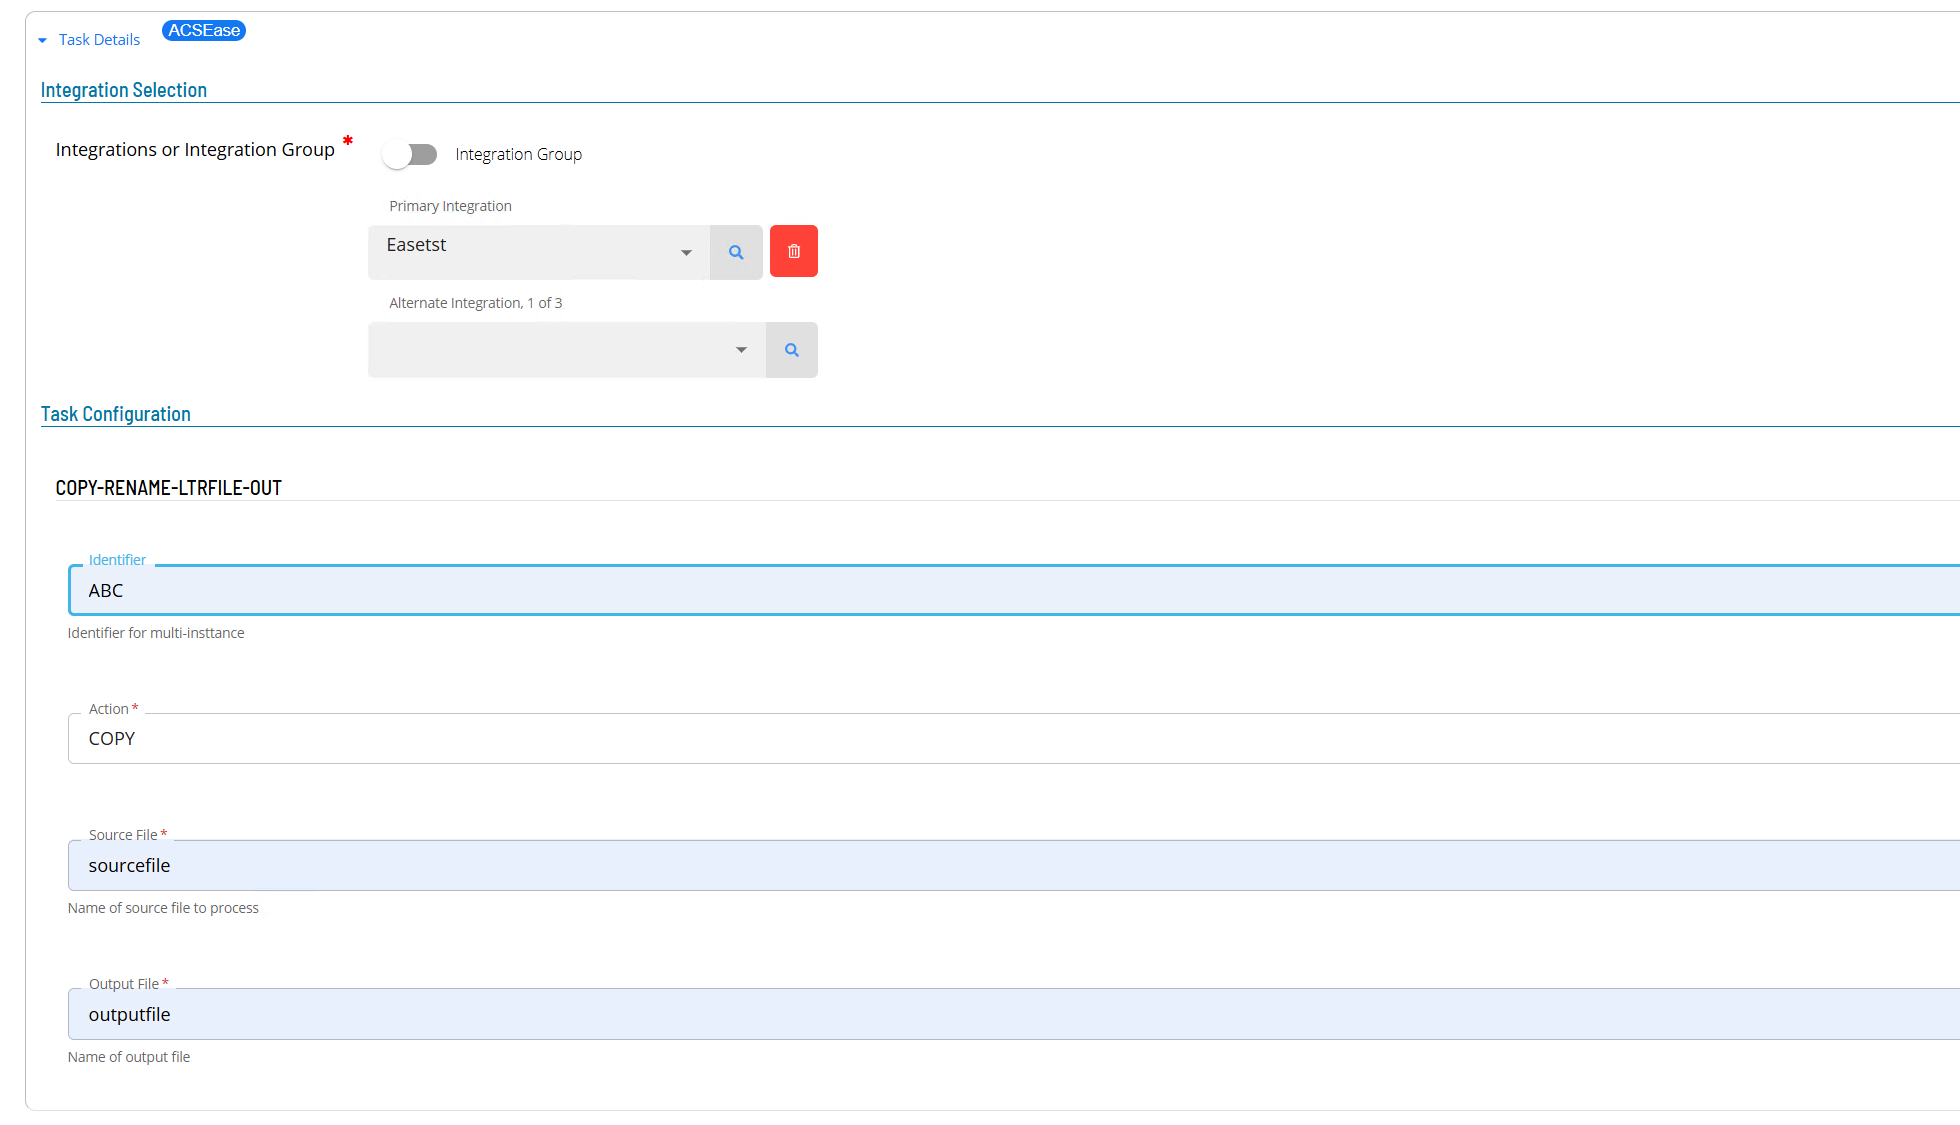
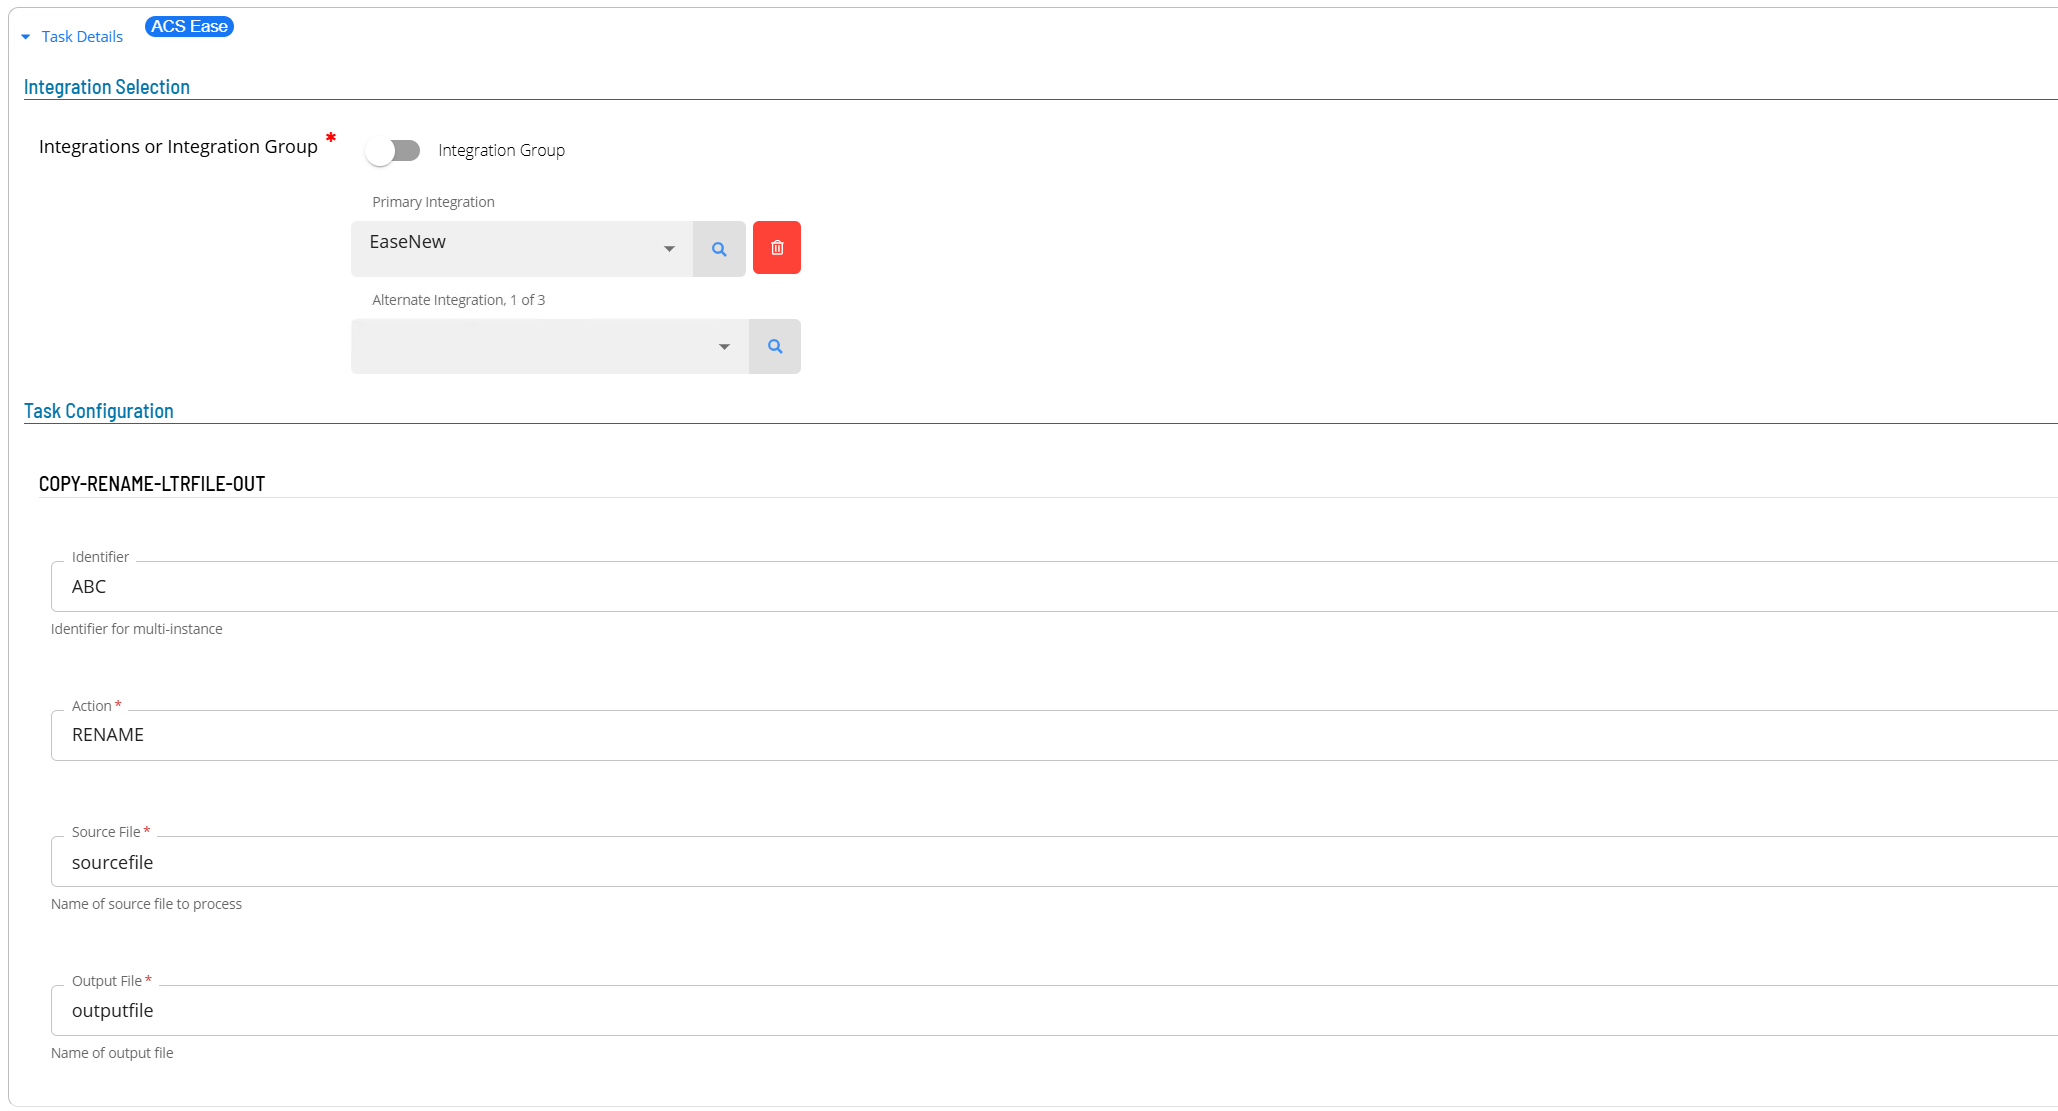
Changed name to ACS Ease

diff --git a/docs/ACSEaseOperation.md b/docs/ACSEaseOperation.md
@@ -3,15 +3,15 @@ slug: '/'
 sidebar_label: 'ACSEase Operation'
 ---
 
-# ACSEase Operation
+# ACS Ease Operation
 
 Once the sma.acs.ACSEase plugin has been registered with the OpCon system, it will be possible to perform agent and task definitions.
 All definitions can only be performed using Solution Manager.
 
-## Defining ACSEase connection
+## Defining ACS Ease connection
 
 The Agent definition is define the connection between your local OpCon system and the target Ease DataCenter OpCon system. 
-This is done by adding a new ACSease Agent definition using Solution Manager. 
+This is done by adding a new ACS Ease Agent definition using Solution Manager. 
 
 Items defined in red are required values (note : global properties are supported). 
 
@@ -23,10 +23,10 @@ Items defined in red are required values (note : global properties are supported
 4.  Select **+Add** to add a new agent definition.
 5.  Fill in the agent details
     - Insert a unique name for the connection.
-    - Select **ACSEase** from the **Type** drop-down list.
+    - Select **ACS Ease** from the **Type** drop-down list.
     - Select **General Settings**
     - Check that the NetCom Name is set to **Default** or the SMA Relay name if Relay is being used. 
-    - Select **ACSEase Settings**
+    - Select **ACS Ease Settings**
     - In the **Customer Id** field enter customer number provided by the Ease DataCenter.
     - In the **Retain Log Files** field enter a value defining the number of days to retain log files (default is 30 days).
     - In the **Ease DataCenter** section
@@ -38,7 +38,7 @@ Items defined in red are required values (note : global properties are supported
 
 ## Defining tasks
 
-The ACSEase Connection supports the following task types:
+The ACS Ease Connection supports the following task types:
 
 Task Type                | Description
 -------------------------|-------------------------------------
@@ -73,7 +73,7 @@ tasks.
 5.  Fill in the task details.
     - Select the **Schedule** name from the drop-down list.
     - In the **Name** field enter a unique name for the task within the schedule.
-    - Select **ACSEase** from the **Job Type** drop-down list.
+    - Select **ACS Ease** from the **Job Type** drop-down list.
     - Select **COPY-DATA-TO-LTRFILE : Copy outgoing Data File to Letter Files for FTP** from the **Task Type** drop-down list.
     
 Enter details for Task Type **COPY-DATA-TO-LTRFILE**. 
@@ -96,7 +96,7 @@ Enter details for Task Type **COPY-DATA-TO-LTRFILE**.
 5.  Fill in the task details.
     - Select the **Schedule** name from the drop-down list.
     - In the **Name** field enter a unique name for the task within the schedule.
-    - Select **ACSEase** from the **Job Type** drop-down list.
+    - Select **ACS Ease** from the **Job Type** drop-down list.
     - Select **COPY-RENAME-LTRFILE-OUT : Copy or Rename Letter File for FTP** from the **Task Type** drop-down list.
     
 Enter details for Task Type **COPY-RENAME-LTRFILE-OUT**. 
@@ -120,7 +120,7 @@ Enter details for Task Type **COPY-RENAME-LTRFILE-OUT**.
 5.  Fill in the task details.
     - Select the **Schedule** name from the drop-down list.
     - In the **Name** field enter a unique name for the task within the schedule.
-    - Select **ACSEase** from the **Job Type** drop-down list.
+    - Select **ACS Ease** from the **Job Type** drop-down list.
     - Select **COPY-RPT-OUT : Copy Report to Letter Files for FTP** from the **Task Type** drop-down list.
     
 Enter details for Task Type **COPY-RPT-OUT**. 
@@ -142,7 +142,7 @@ Enter details for Task Type **COPY-RPT-OUT**.
 5.  Fill in the task details.
     - Select the **Schedule** name from the drop-down list.
     - In the **Name** field enter a unique name for the task within the schedule.
-    - Select **ACSEase** from the **Job Type** drop-down list.
+    - Select **ACS Ease** from the **Job Type** drop-down list.
     - Select **FILEPERMS : Update Letter File Privileges to 774** from the **Task Type** drop-down list.
     
 Enter details for Task Type **FILEPERMS**. 
@@ -164,7 +164,7 @@ Enter details for Task Type **FILEPERMS**.
 5.  Fill in the task details.
     - Select the **Schedule** name from the drop-down list.
     - In the **Name** field enter a unique name for the task within the schedule.
-    - Select **ACSEase** from the **Job Type** drop-down list.
+    - Select **ACS Ease** from the **Job Type** drop-down list.
     - Select **MONITOR : File Monitor for Incoming File** from the **Task Type** drop-down list.
     
 Enter details for Task Type **MONITOR**. 
@@ -186,7 +186,7 @@ Enter details for Task Type **MONITOR**.
 5.  Fill in the task details.
     - Select the **Schedule** name from the drop-down list.
     - In the **Name** field enter a unique name for the task within the schedule.
-    - Select **ACSEase** from the **Job Type** drop-down list.
+    - Select **ACS Ease** from the **Job Type** drop-down list.
     - Select **MOVE-LTRFILE-TO-DATA : Move incoming Letter File to Data Files** from the **Task Type** drop-down list.
     
 Enter details for Task Type **MOVE-LTRFILE-TO-DATA**. 
@@ -209,7 +209,7 @@ Enter details for Task Type **MOVE-LTRFILE-TO-DATA**.
 5.  Fill in the task details.
     - Select the **Schedule** name from the drop-down list.
     - In the **Name** field enter a unique name for the task within the schedule.
-    - Select **ACSEase** from the **Job Type** drop-down list.
+    - Select **ACS Ease** from the **Job Type** drop-down list.
     - Select **PROMPT : Answer a Single Prompt** from the **Task Type** drop-down list.
     
 Enter details for Task Type **PROMPT**. 
@@ -233,7 +233,7 @@ Enter details for Task Type **PROMPT**.
 5.  Fill in the task details.
     - Select the **Schedule** name from the drop-down list.
     - In the **Name** field enter a unique name for the task within the schedule.
-    - Select **ACSEase** from the **Job Type** drop-down list.
+    - Select **ACS Ease** from the **Job Type** drop-down list.
     - Select **PROMPTSEQ : Answer a Single Prompt with a SEQ** from the **Task Type** drop-down list.
     
 Enter details for Task Type **PROMPTSEQ**. 
@@ -256,7 +256,7 @@ Enter details for Task Type **PROMPTSEQ**.
 5.  Fill in the task details.
     - Select the **Schedule** name from the drop-down list.
     - In the **Name** field enter a unique name for the task within the schedule.
-    - Select **ACSEase** from the **Job Type** drop-down list.
+    - Select **ACS Ease** from the **Job Type** drop-down list.
     - Select **RUN-FTP-OUT : FTP Letter File off Symitar** from the **Task Type** drop-down list.
     
 Enter details for Task Type **RUN-FTP-OUT**. 
@@ -303,7 +303,7 @@ Enter details for Task Type **RENAME-LTRFILE-IN**.
 5.  Fill in the task details.
     - Select the **Schedule** name from the drop-down list.
     - In the **Name** field enter a unique name for the task within the schedule.
-    - Select **ACSEase** from the **Job Type** drop-down list.
+    - Select **ACS Ease** from the **Job Type** drop-down list.
     - Select **RSJ : Run Symitar Job (single-threaded)** from the **Task Type** drop-down list.
     
 Enter details for Task Type **RSJ**. 
@@ -324,7 +324,7 @@ Enter details for Task Type **RSJ**.
 5.  Fill in the task details.
     - Select the **Schedule** name from the drop-down list.
     - In the **Name** field enter a unique name for the task within the schedule.
-    - Select **ACSEase** from the **Job Type** drop-down list.
+    - Select **ACS Ease** from the **Job Type** drop-down list.
     - Select **RSJEDIT :Runs Symitar Job with Edit File** from the **Task Type** drop-down list.
     
 Enter details for Task Type **RSJEDIT**. 
@@ -347,7 +347,7 @@ Enter details for Task Type **RSJEDIT**.
 5.  Fill in the task details.
     - Select the **Schedule** name from the drop-down list.
     - In the **Name** field enter a unique name for the task within the schedule.
-    - Select **ACSEase** from the **Job Type** drop-down list.
+    - Select **ACS Ease** from the **Job Type** drop-down list.
     - Select **RSJMULTI : Run Symitar Job (multi-threaded)** from the **Task Type** drop-down list.
     
 Enter details for Task Type **RSJMULTI**. 
@@ -369,7 +369,7 @@ Enter details for Task Type **RSJMULTI**.
 5.  Fill in the task details.
     - Select the **Schedule** name from the drop-down list.
     - In the **Name** field enter a unique name for the task within the schedule.
-    - Select **ACSEase** from the **Job Type** drop-down list.
+    - Select **ACS Ease** from the **Job Type** drop-down list.
     - Select **SEQ : Collect the SEQ of a Report** from the **Task Type** drop-down list.
     
 Enter details for Task Type **SEQ**. 
@@ -392,7 +392,7 @@ Enter details for Task Type **SEQ**.
 5.  Fill in the task details.
     - Select the **Schedule** name from the drop-down list.
     - In the **Name** field enter a unique name for the task within the schedule.
-    - Select **ACSEase** from the **Job Type** drop-down list.
+    - Select **ACS Ease** from the **Job Type** drop-down list.
     - Select **SEQ-SEND : Copy Specified SEQ to Reports for FTP** from the **Task Type** drop-down list.
     
 Enter details for Task Type **SEQ-SEND**. 
@@ -414,7 +414,7 @@ Enter details for Task Type **SEQ-SEND**.
 5.  Fill in the task details.
     - Select the **Schedule** name from the drop-down list.
     - In the **Name** field enter a unique name for the task within the schedule.
-    - Select **ACSEase** from the **Job Type** drop-down list.
+    - Select **ACS Ease** from the **Job Type** drop-down list.
     - Select **TRANSLATE2COMMAS : Answer a Single Prompt containing commas** from the **Task Type** drop-down list.
     
 Enter details for Task Type **STRANSLATE2COMMAS**. 

diff --git a/docs/index.md b/docs/index.md
@@ -23,19 +23,19 @@ JORS support for the ACS environment is only provided through Solution Manager.
 
 ## Implementation
 
-Ease ACS comprises of the ACSEase environment which is a set of plugins that are copied to the ..\OpConxps\SAM\plugins folder of an on-prem
+Ease ACS comprises of the ACS Ease environment which is a set of plugins that are copied to the ..\OpConxps\SAM\plugins folder of an on-prem
 OpCon environment or the ..\SAMRelay\plugins folder of a on-prem SMA Relay installation.
 
-The ACSEase module provides the various screen definitions and execution code to manage ACSEase task types. Solution Manager is used to define the
+The ACS Ease module provides the various screen definitions and execution code to manage ACS Ease task types. Solution Manager is used to define the
 connection to the Ease DataCenter OpCon system as well as ACSEase task types which are stored in a schedule in the customer OpCon system.
 
 ![Overview](../static/img/Overview.png)
 
 During task execution, the ACSEase task on the customer OpCon system uses the OpCon Rest-API capabilities to inject tasks into their defined schedule in the Ease DataCenter OpCon system. The submitted tasks are monitored for completion and when complete, the job logs of the Ease DataCenter task are retrieved and appended to the job log of the customer ACSEase task.
 
-## ACSEase
+## ACS Ease
 
-THe connection information is entered when defining the ACSEase Connection. Each connection is a associated with a target schedule in the Ease DataCenter. Therefore if multiple target schedules are required, multiple ACSEase connections will be required.
+The connection information is entered when defining the ACSEase Connection. Each connection is a associated with a target schedule in the Ease DataCenter. Therefore if multiple target schedules are required, multiple ACSEase connections will be required.
 
 The implementation includes the retrieval of the job logs of the Tasks executing in the Ease DataCenter and appending the information to the local job log. This means that it is not necessary to access the Ease DataCenter environment to view job logs.
 
